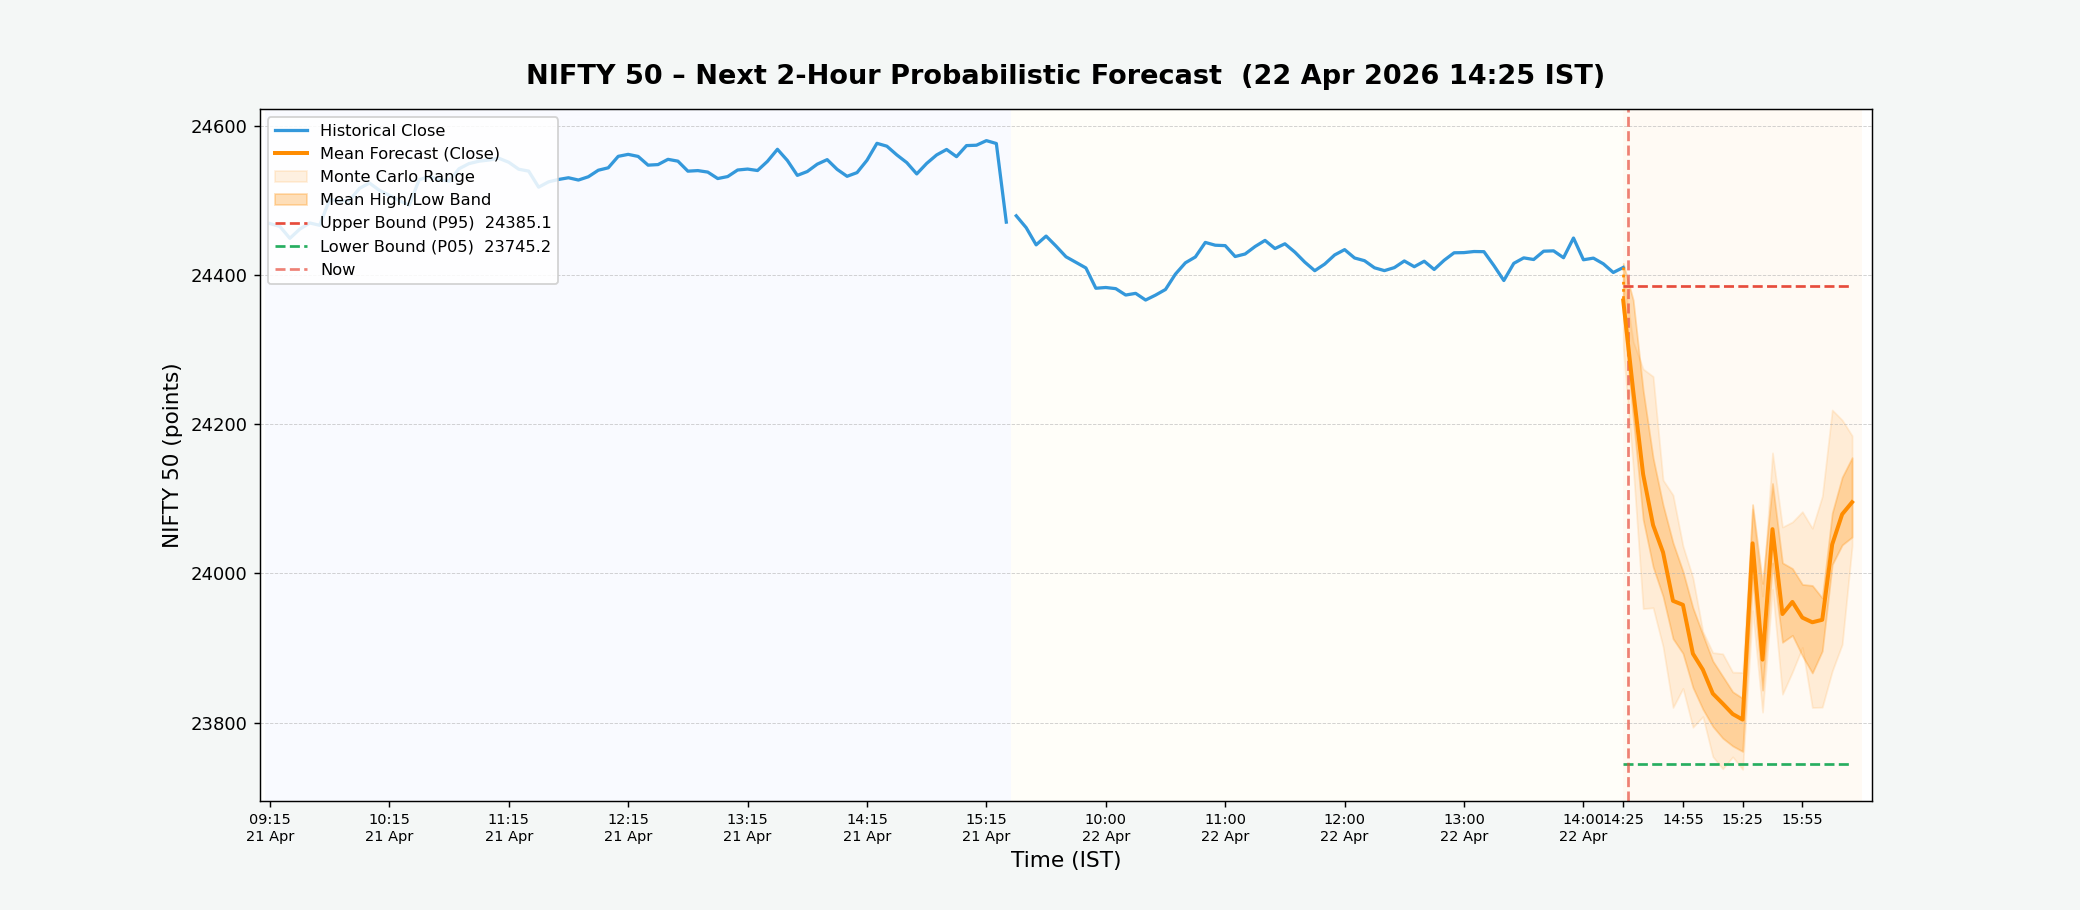
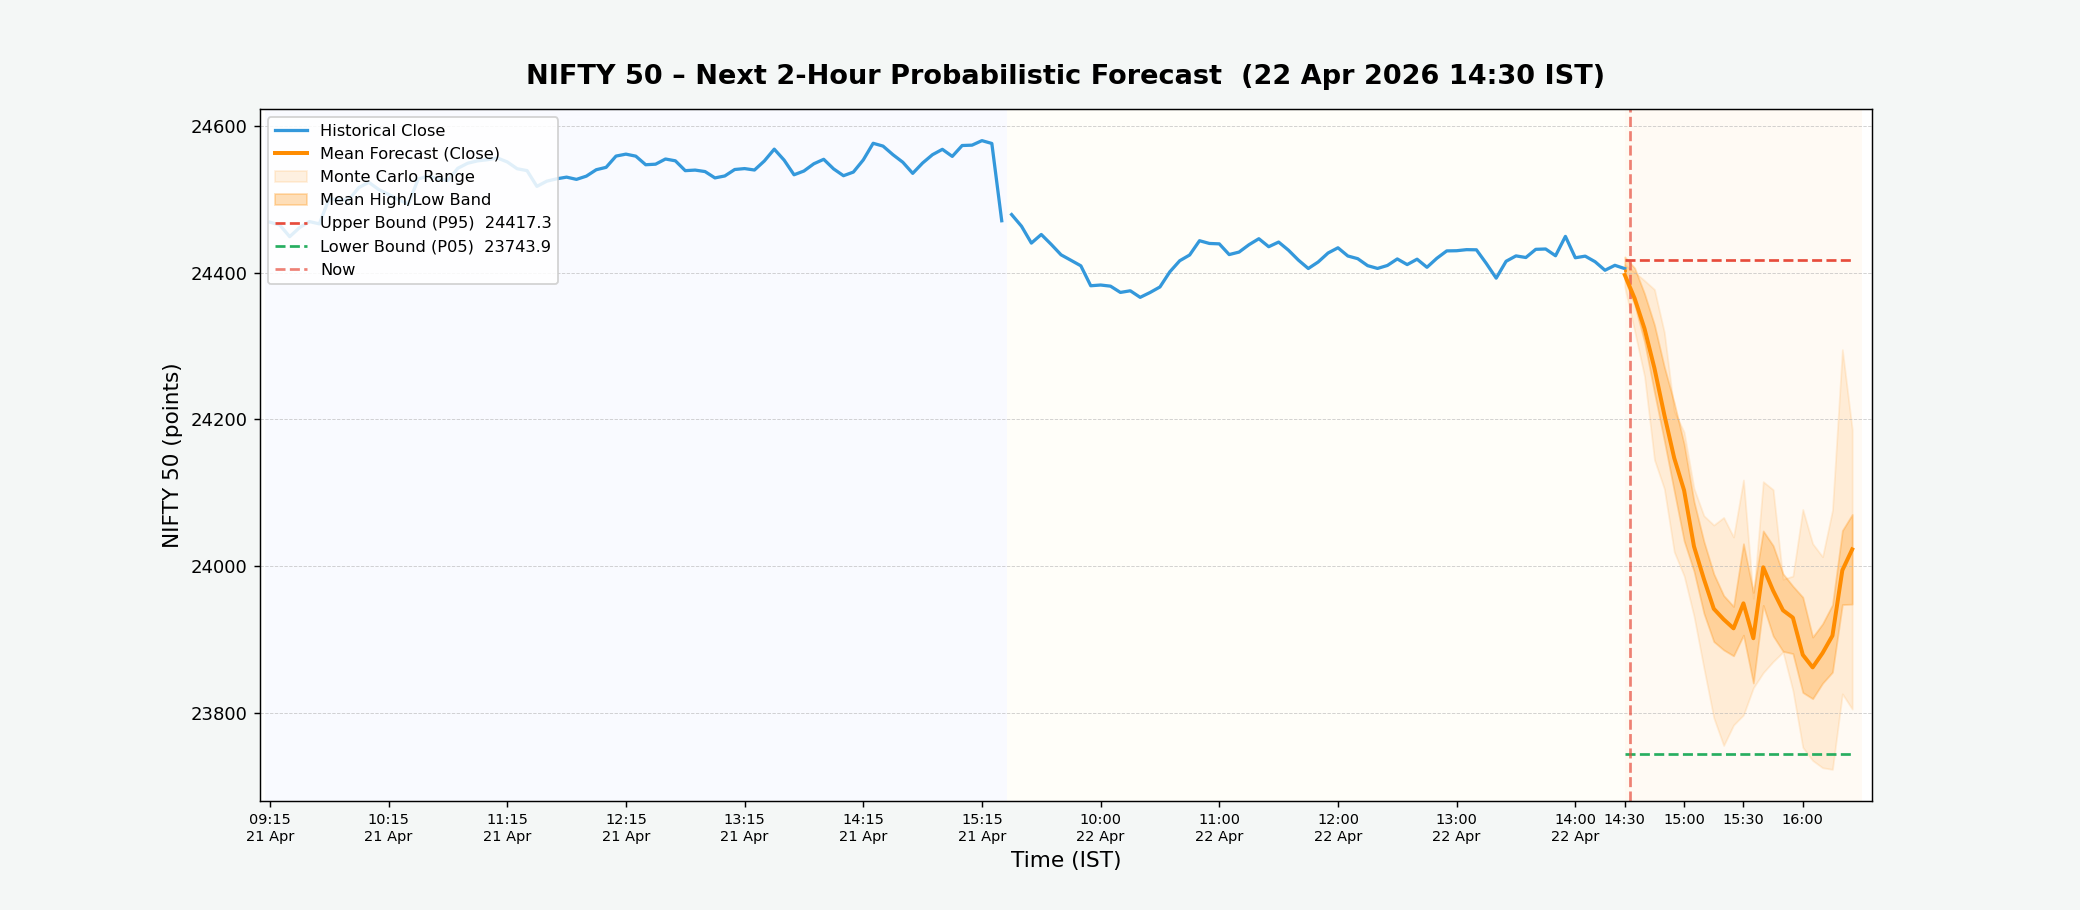
NIFTY forecast update – 2026-04-22 14:30 IST

diff --git a/index.html b/index.html
@@ -24,29 +24,29 @@
 
         <!-- Timestamp bar -->
         <div class="timestamp-bar">
-            <span>Last updated (IST):&nbsp;<strong id="update-time">2026-04-22 14:25:04</strong></span>
+            <span>Last updated (IST):&nbsp;<strong id="update-time">2026-04-22 14:30:04</strong></span>
         </div>
 
         <!-- Metric cards -->
         <div class="metrics-container">
             <div class="metric-card bullish">
                 <div class="metric-label">Bullish Bar Ratio</div>
-                <div class="metric-value" id="upside-prob">32.9%</div>
+                <div class="metric-value" id="upside-prob">32.1%</div>
                 <div class="metric-sub">Next 2h · close &gt; open %</div>
             </div>
             <div class="metric-card upper">
                 <div class="metric-label">Upper Bound</div>
-                <div class="metric-value" id="upper-bound">24385.1</div>
+                <div class="metric-value" id="upper-bound">24417.3</div>
                 <div class="metric-sub">Max predicted high</div>
             </div>
             <div class="metric-card lower">
                 <div class="metric-label">Lower Bound</div>
-                <div class="metric-value" id="lower-bound">23745.2</div>
+                <div class="metric-value" id="lower-bound">23743.9</div>
                 <div class="metric-sub">Min predicted low</div>
             </div>
             <div class="metric-card range">
                 <div class="metric-label">Predicted Range</div>
-                <div class="metric-value" id="pred-range">640.0 pts</div>
+                <div class="metric-value" id="pred-range">673.4 pts</div>
                 <div class="metric-sub">Upper − Lower spread</div>
             </div>
         </div>
